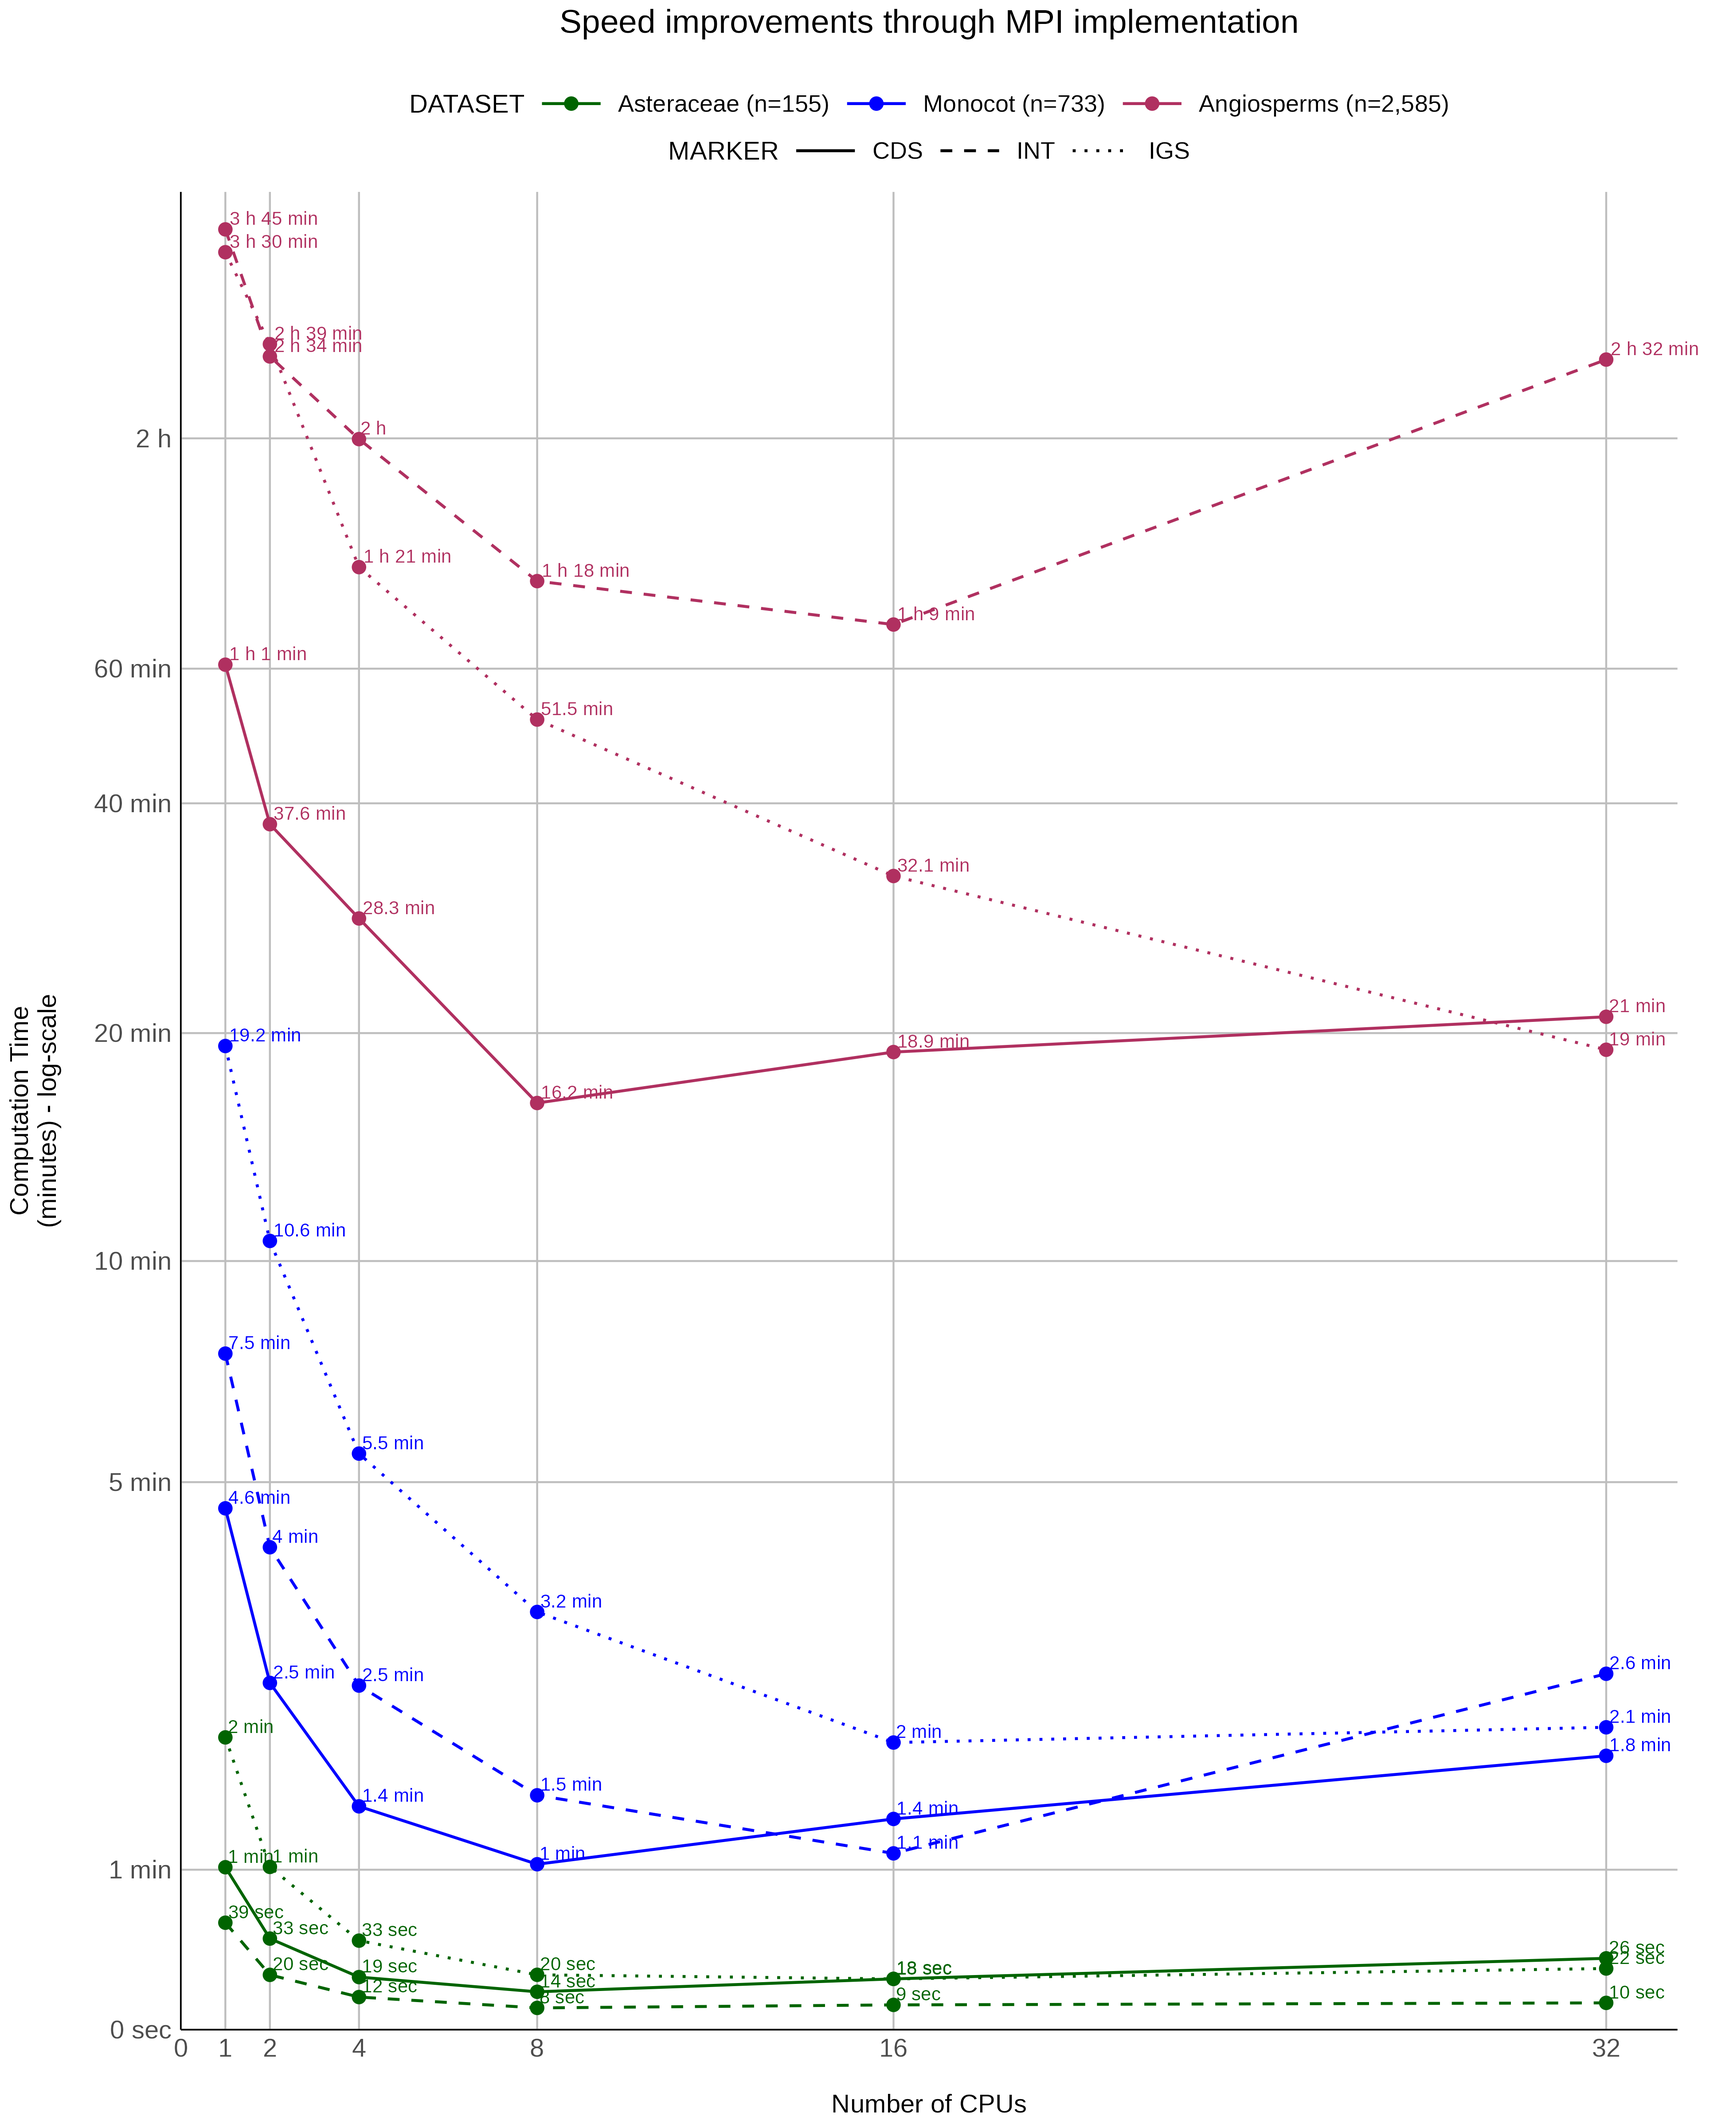
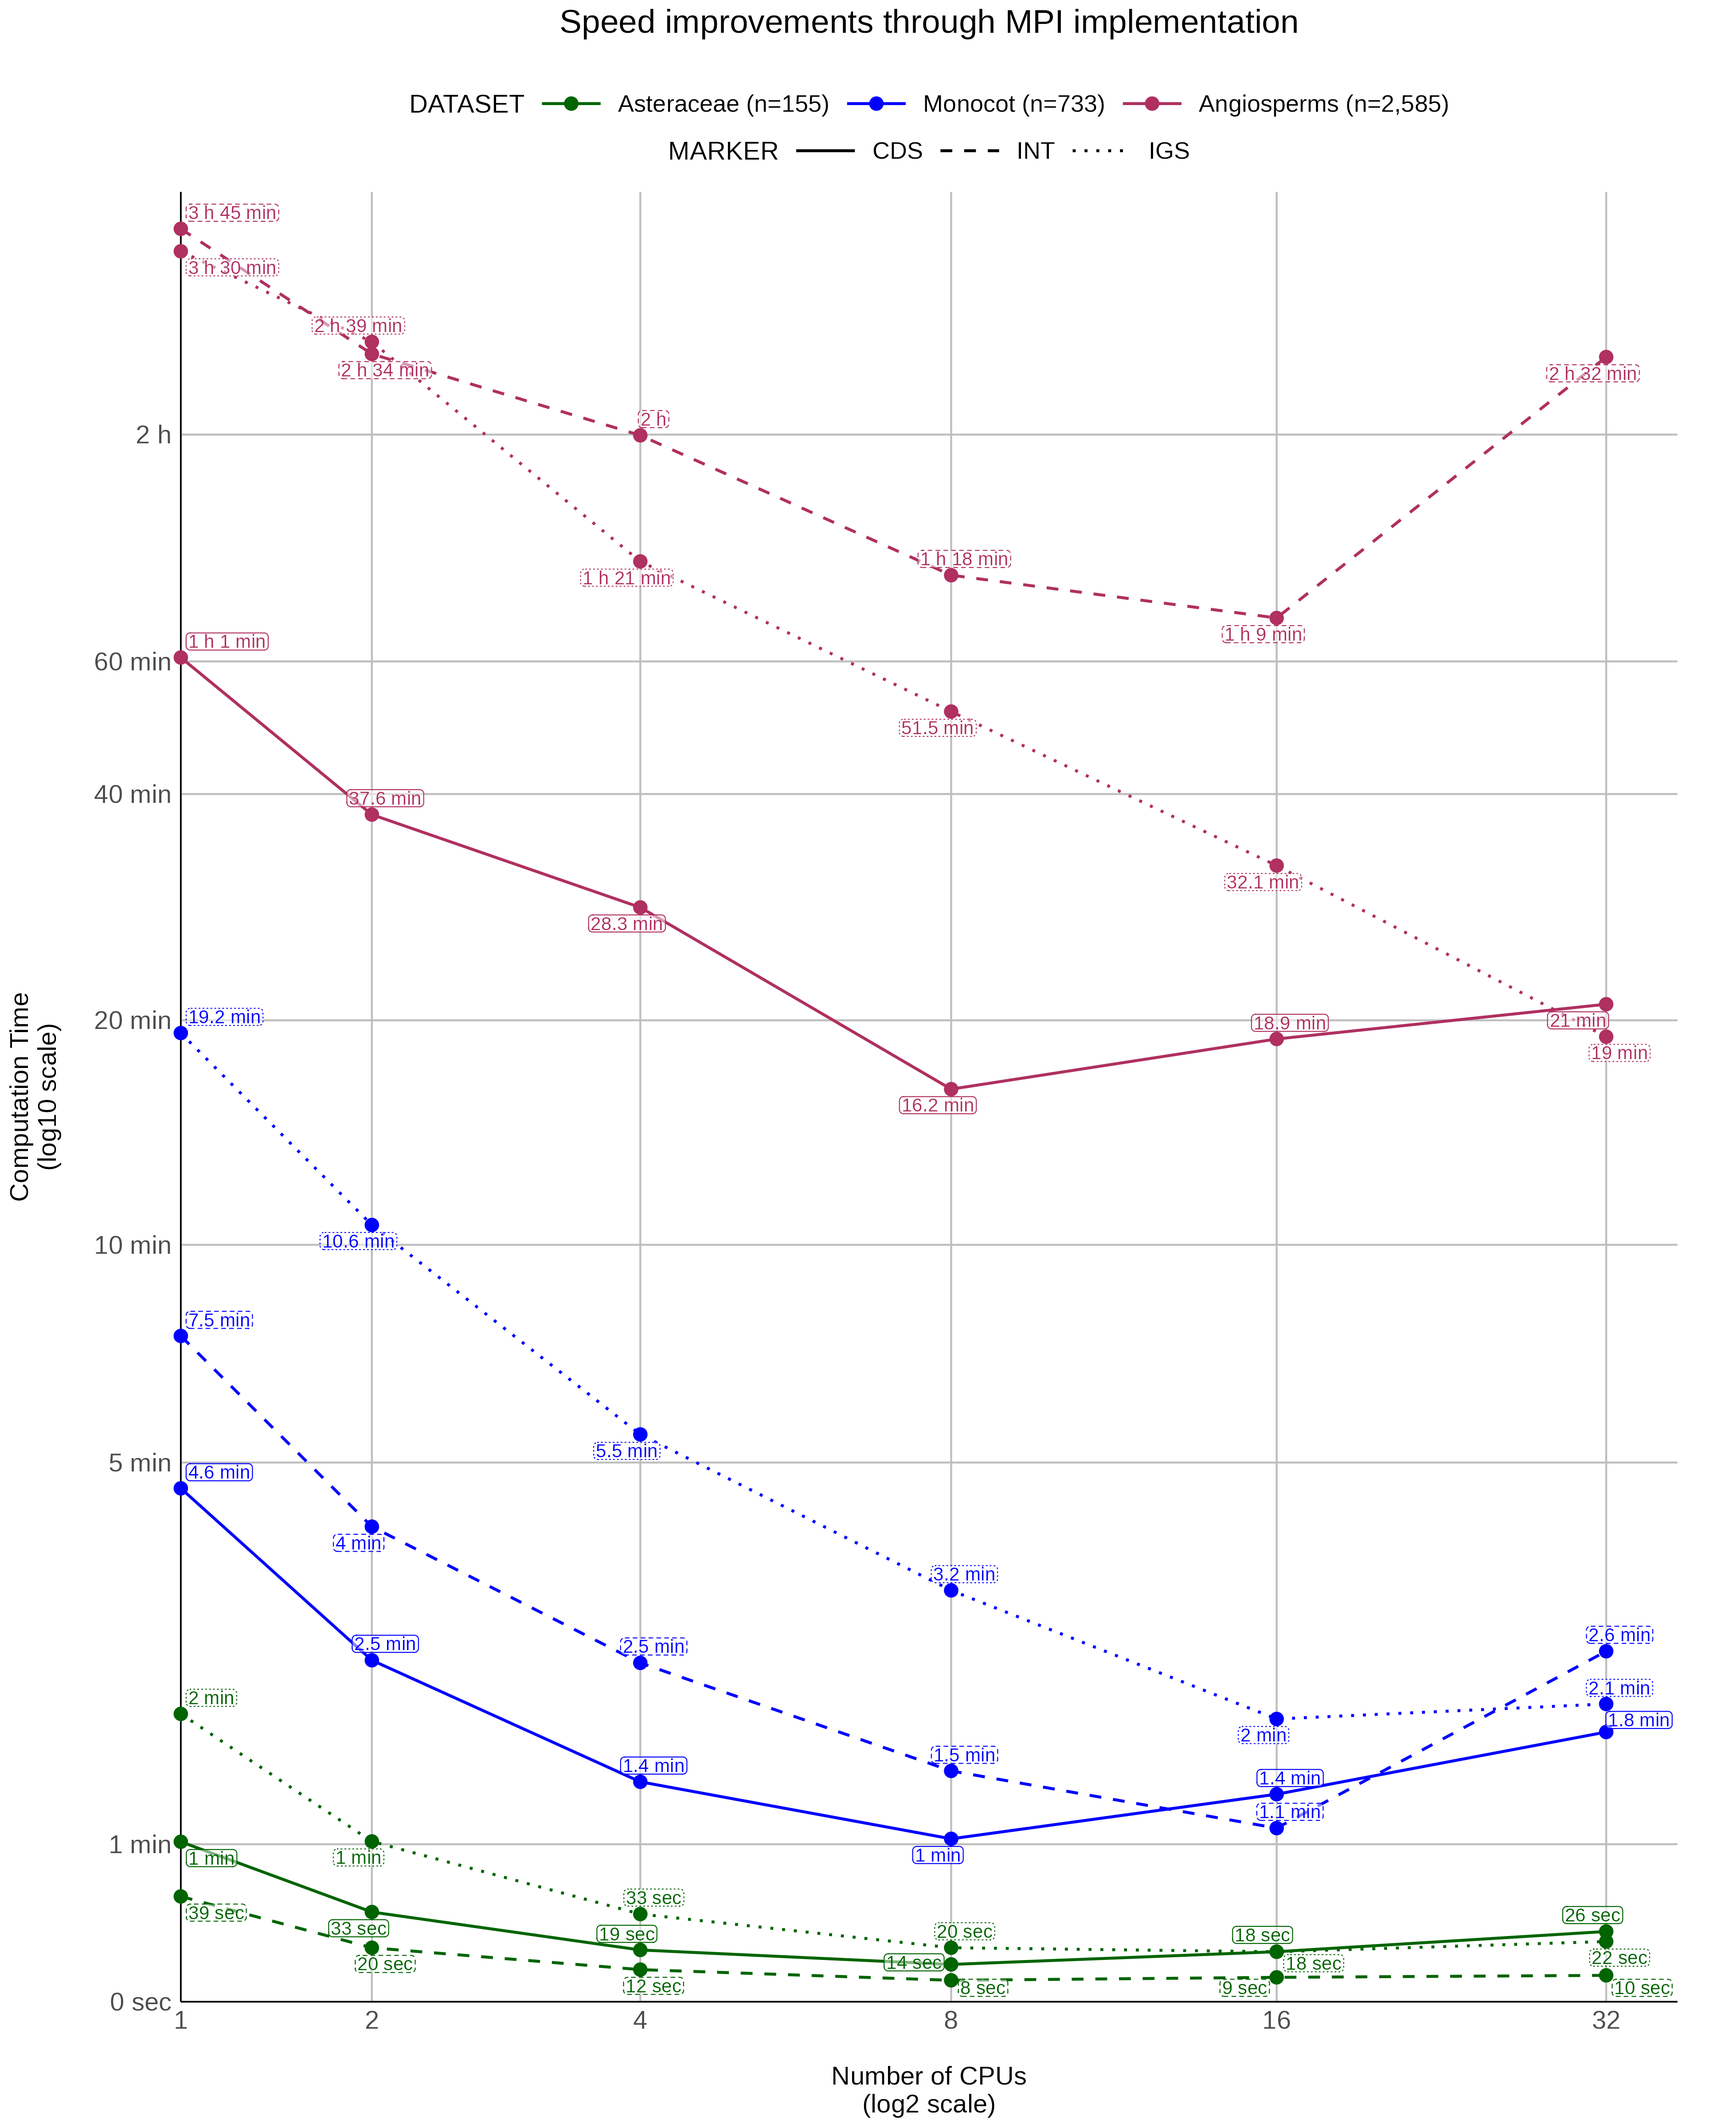
Improving speed improvement figure further

diff --git a/README.md b/README.md
@@ -3,7 +3,7 @@ Code for generating publication-quality figures and tables for the manuscript.
 
 ### Accumulation graphs
 ```bash
-Rscript -e "install.packages(c('argparse','ggplot2','ggtext', 'plyr','dplyr','svglite'), repos='https://cloud.r-project.org')"
+Rscript -e "install.packages(c('argparse','ggplot2','ggrepel', 'ggtext', 'plyr','dplyr','svglite'), repos='https://cloud.r-project.org')"
 ```
 #### Combined: records (histogram) + publications (blue line)
 ```bash
